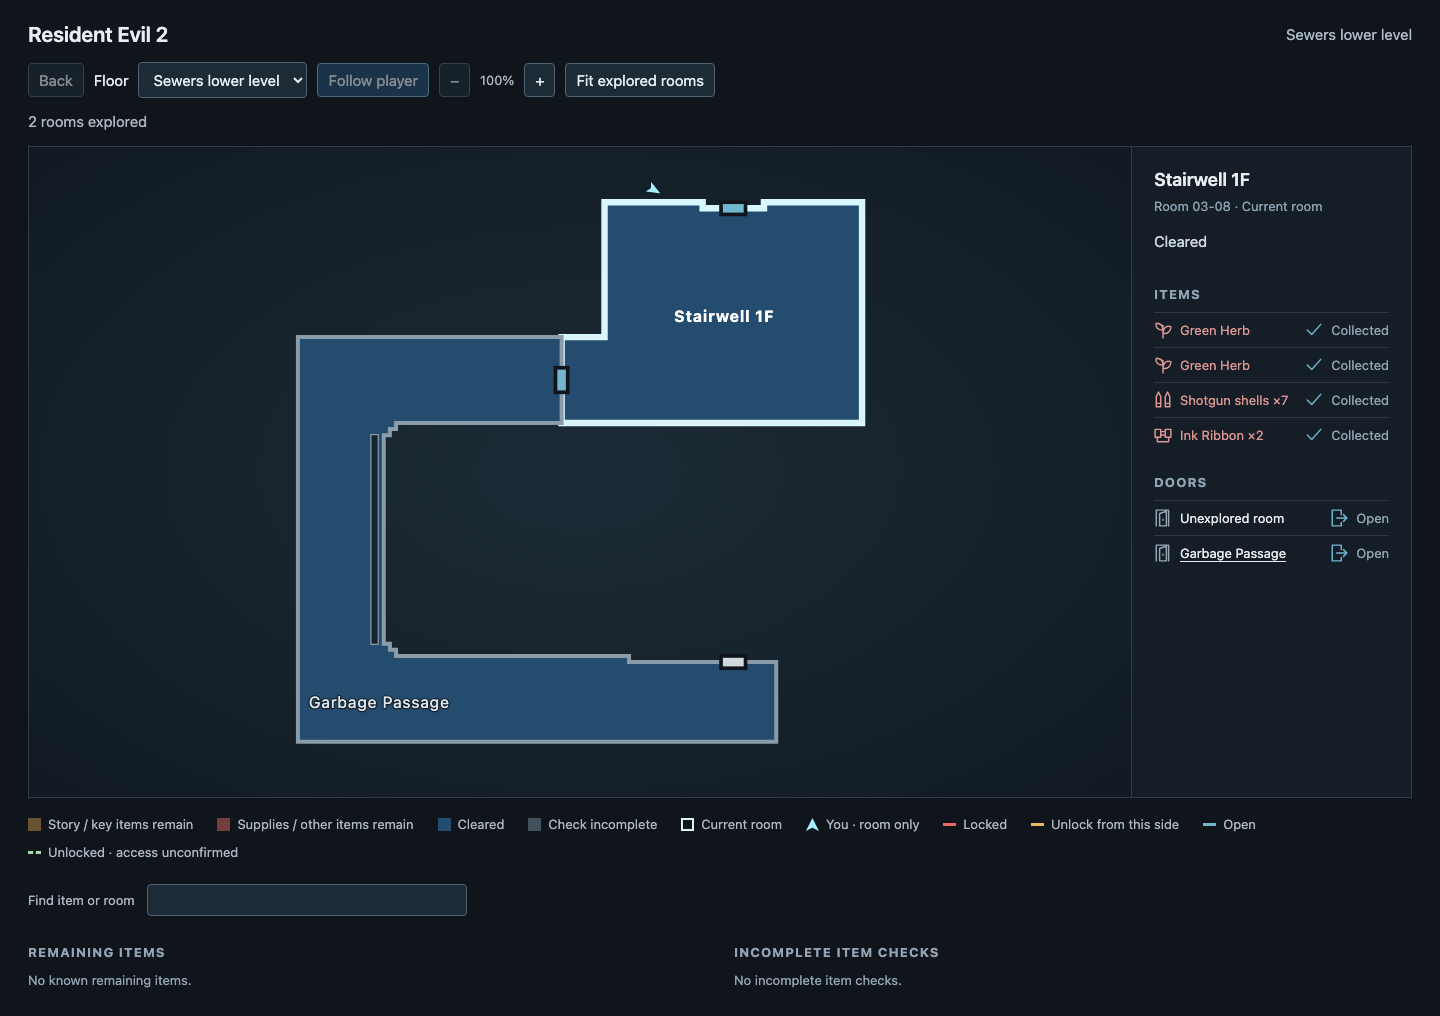
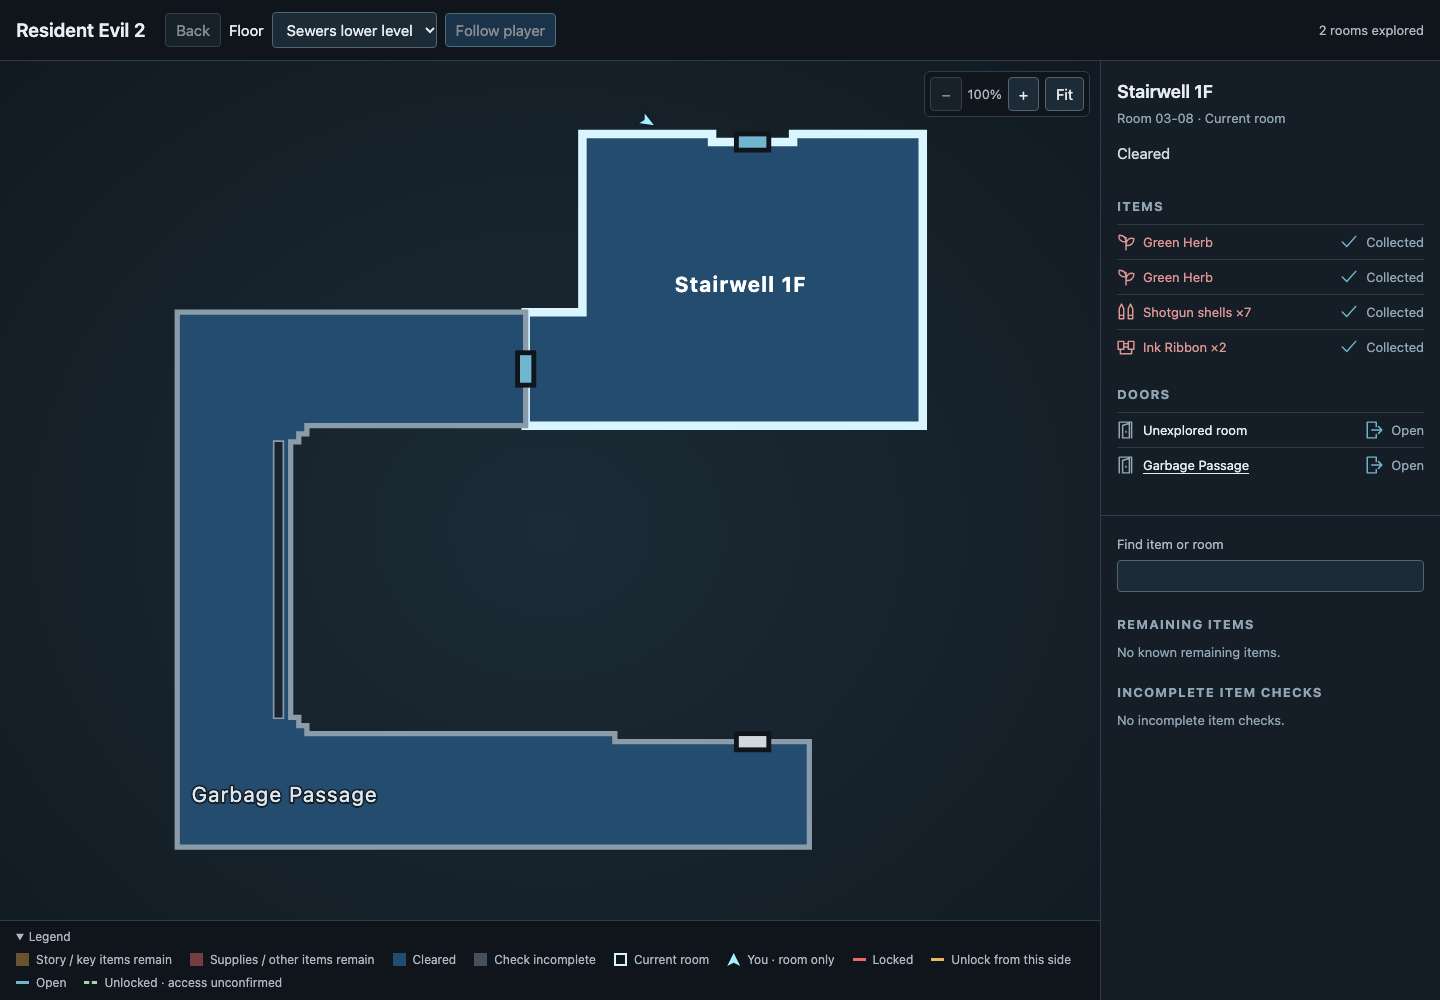
feat(ui): fit the map and room sidebar to the window
Wide windows now show the floor plan at full height beside a scrolling
sidebar holding room details and remaining items. Map controls join the
header, zoom floats over the map and the legend collapses below it.

Author: claude-opus-5-5

diff --git a/src/ui/map_view.py b/src/ui/map_view.py
@@ -215,18 +215,18 @@ _PAGE = """<!doctype html>
 <style>
 :root { color-scheme:dark; font:15px system-ui,sans-serif; background:#10151b; color:#e7edf2; }
 body { margin:0; }
-header { padding:22px 28px 16px; display:flex; justify-content:space-between; align-items:center; gap:16px; }
-h1 { margin:0; font-size:21px; font-weight:600; }
-#place { color:#b0beca; }
-#map-controls { padding:0 28px 14px; display:flex; align-items:center; flex-wrap:wrap; gap:10px; }
-#zoom-controls { display:inline-flex; align-items:center; gap:10px; }
+header { padding:12px 16px; display:flex; align-items:center; flex-wrap:wrap; gap:10px 20px; border-bottom:1px solid #303d48; }
+h1 { margin:0; font-size:19px; font-weight:600; }
+#map-controls { display:flex; align-items:center; flex-wrap:wrap; gap:8px; }
+/* Map controls float above the map so the floor plan keeps the full height. */
+#zoom-controls { position:absolute; top:10px; right:10px; z-index:1; display:flex; align-items:center; gap:6px; padding:5px; background:rgba(16,21,27,.86); border:1px solid #303d48; border-radius:6px; }
 select,button,input { font:inherit; color:inherit; background:#1c2b36; border:1px solid #506473; border-radius:4px; padding:7px 10px; }
 select:disabled,button:disabled,input:disabled { opacity:.55; }
 #current-room[aria-pressed="true"] { border-color:#71b6cf; background:#244c6e; }
-#status { padding:0 28px 14px; min-height:20px; color:#abb9c5; }
-main { display:grid; grid-template-columns:minmax(0,1fr) 280px; margin:0 28px; border:1px solid #303d48; background:#151e27; }
+#status { margin-left:auto; color:#abb9c5; font-size:13px; }
+main { display:grid; grid-template-columns:minmax(0,1fr); background:#151e27; }
 #map-shell { position:relative; min-width:0; background:radial-gradient(ellipse at center,#1c2b36,#111a22); }
-#map { display:block; width:100%; height:65vh; min-height:410px; }
+#map { display:block; width:100%; height:60vh; min-height:340px; }
 #map { user-select:none; }
 #map:focus-visible { outline:2px solid #d9f6ff; outline-offset:-2px; }
 #map.navigable { cursor:grab; touch-action:none; }
@@ -279,8 +279,10 @@ distinct from room outlines and fills. */
 .door.UNCHECKED .unlock-symbol rect { stroke-dasharray:.9 .6; }
 .door.BLOCKED .unlock-symbol rect { stroke:#ed6965; }
 .door.OPEN .unlock-symbol rect { stroke:#71b6cf; }
-aside { border-left:1px solid #303d48; padding:22px; }
-#room-name { font-size:18px; font-weight:600; margin:0 0 8px; }
+aside { border-top:1px solid #303d48; }
+#room-details { padding:20px 16px; }
+/* Focus recovery scrolls details into view; keep them clear of the viewport edge. */
+#room-name { font-size:18px; font-weight:600; margin:0 0 8px; scroll-margin:16px; }
 #room-id { color:#91a5b4; font-size:13px; margin-bottom:18px; }
 #completion { padding-bottom:14px; color:#ced9e1; }
 h2 { font-size:13px; text-transform:uppercase; letter-spacing:.09em; color:#91a5b4; margin:22px 0 10px; }
@@ -299,15 +301,16 @@ li > span:last-child { color:#94a7b6; text-align:right; }
 .list-symbol.locked,.list-symbol.blocked { color:#ed6965; }
 .list-symbol.unlockable { color:#e9b85e; }
 .list-symbol.unlocked { color:#a5d5ac; }
-#legend { display:flex; flex-wrap:wrap; gap:12px 24px; padding:18px 28px 24px; color:#abb9c5; font-size:13px; }
+#legend { color:#abb9c5; font-size:13px; border-top:1px solid #303d48; background:#10151b; }
+#legend summary { padding:10px 16px; cursor:pointer; }
+#legend-entries { display:flex; flex-wrap:wrap; gap:10px 20px; padding:0 16px 14px; }
 .key { display:inline-block; width:13px; height:13px; margin-right:7px; vertical-align:-2px; }
 .key.door-key { height:3px; vertical-align:3px; }
 .key.unlocked-key { height:0; border-top:3px dashed #a5d5ac; }
 #note { color:#91a5b4; font-size:13px; line-height:1.5; }
-#overview { display:grid; grid-template-columns:1fr 1fr; gap:28px; margin:0 28px 28px; }
-#item-search-label { grid-column:1/-1; display:flex; flex-wrap:wrap; align-items:center; gap:8px 12px; font-size:13px; color:#abb9c5; }
-#item-search { box-sizing:border-box; width:min(100%,320px); }
-#cleared-section { grid-column:1/-1; }
+#overview { display:flex; flex-direction:column; gap:24px; padding:20px 16px; border-top:1px solid #303d48; }
+#item-search-label { display:flex; flex-direction:column; gap:8px; font-size:13px; color:#abb9c5; }
+#item-search { box-sizing:border-box; width:100%; }
 #overview h2 { margin:0 0 12px; }
 #overview h3 { margin:18px 0 8px; font-size:14px; font-weight:500; }
 #overview p { margin:0; font-size:13px; color:#91a5b4; }
@@ -316,18 +319,29 @@ li > span:last-child { color:#94a7b6; text-align:right; }
 .room-link:hover,.room-link:focus-visible { border-color:#d9f6ff; }
 #overview .room-link span { display:block; text-align:left; color:inherit; }
 #overview .room-link span+span { margin-top:4px; color:#94a7b6; }
-@media(max-width:760px) { header { padding:18px; } #map-controls { padding:0 18px 12px; } #status { padding:0 18px 12px; } main { margin:0 18px; grid-template-columns:1fr; } #map { min-height:340px; height:52vh; } aside { border-left:0; border-top:1px solid #303d48; } #legend { padding:18px; } #overview { margin:0 18px 18px; grid-template-columns:1fr; gap:22px; } }
+/* Wide windows keep the map and sidebar on screen together during play;
+the sidebar scrolls on its own instead of the page. */
+@media(min-width:761px) and (min-height:560px) {
+  body { height:100vh; height:100dvh; display:flex; flex-direction:column; overflow:hidden; }
+  main { flex:1; min-height:0; grid-template-columns:minmax(0,1fr) 300px; grid-template-rows:minmax(0,1fr); }
+  /* The legend stays below the floor plan so it never covers explored rooms. */
+  #map-shell { display:flex; flex-direction:column; }
+  #map { flex:1; height:auto; min-height:0; }
+  aside { border-top:0; border-left:1px solid #303d48; overflow-y:auto; }
+  #legend { font-size:12px; }
+  #legend summary { padding:8px 16px; }
+  #legend-entries { gap:8px 18px; padding:0 16px 10px; }
+}
+@media(min-width:1100px) and (min-height:560px) { main { grid-template-columns:minmax(0,1fr) 340px; } }
 </style>
 </head>
 <body>
-<header><h1>__GAME_TITLE__</h1><span id="place"></span></header>
-<nav id="map-controls" aria-label="Map controls"><button id="back-room" type="button" aria-label="Back to previous room" disabled>Back</button><label for="floor">Floor</label><select id="floor" disabled></select><button id="current-room" type="button" aria-pressed="false" disabled>Follow player</button><span id="zoom-controls" role="group" aria-label="Map zoom"><button id="zoom-out" type="button" aria-label="Zoom out" disabled>−</button><output id="zoom-level" aria-label="Zoom level"></output><button id="zoom-in" type="button" aria-label="Zoom in" disabled>+</button></span><button id="fit-rooms" type="button" disabled>Fit explored rooms</button></nav>
-<div id="status" role="status">Waiting for game.</div>
+<header><h1>__GAME_TITLE__</h1><nav id="map-controls" aria-label="Map controls"><button id="back-room" type="button" aria-label="Back to previous room" disabled>Back</button><label for="floor">Floor</label><select id="floor" disabled></select><button id="current-room" type="button" aria-pressed="false" disabled>Follow player</button></nav><div id="status" role="status">Waiting for game.</div></header>
 <main>
-<div id="map-shell"><svg id="map" role="group" tabindex="-1" aria-label="Explored rooms" aria-description="Arrow keys move the map. Plus and minus zoom. Zero fits explored rooms. You can also drag, pinch or use the mouse wheel."></svg></div>
-<aside><div id="room-name" tabindex="-1">No room entered</div><div id="room-id"></div><div id="completion"></div><h2>Items</h2><ul id="items"></ul><h2>Doors</h2><ul id="doors"></ul><p id="note"></p></aside>
-</main>
-<div id="legend">
+<div id="map-shell">
+<div id="zoom-controls" role="group" aria-label="Map zoom"><button id="zoom-out" type="button" aria-label="Zoom out" disabled>−</button><output id="zoom-level" aria-label="Zoom level"></output><button id="zoom-in" type="button" aria-label="Zoom in" disabled>+</button><button id="fit-rooms" type="button" aria-label="Fit explored rooms" title="Fit explored rooms" disabled>Fit</button></div>
+<svg id="map" role="group" tabindex="-1" aria-label="Explored rooms" aria-description="Arrow keys move the map. Plus and minus zoom. Zero fits explored rooms. You can also drag, pinch or use the mouse wheel."></svg>
+<details id="legend" open><summary>Legend</summary><div id="legend-entries">
 <span><i class="key" style="background:#685331"></i>Story / key items remain</span>
 <span><i class="key" style="background:#743e40"></i>Supplies / other items remain</span>
 <span><i class="key" style="background:#244c6e"></i>Cleared</span>
@@ -338,13 +352,18 @@ li > span:last-child { color:#94a7b6; text-align:right; }
 <span><i class="key door-key" style="background:#e9b85e"></i>Unlock from this side</span>
 <span><i class="key door-key" style="background:#71b6cf"></i>Open</span>
 <span><i class="key door-key unlocked-key"></i>Unlocked · access unconfirmed</span>
+</div></details>
 </div>
+<aside>
+<section id="room-details"><div id="room-name" tabindex="-1">No room entered</div><div id="room-id"></div><div id="completion"></div><h2>Items</h2><ul id="items"></ul><h2>Doors</h2><ul id="doors"></ul><p id="note"></p></section>
 <section id="overview" aria-label="Explored room items">
 <label id="item-search-label" for="item-search">Find item or room<input id="item-search" type="search" autocomplete="off" aria-controls="remaining-items incomplete-checks cleared-rooms" disabled></label>
 <section id="cleared-section" aria-labelledby="cleared-heading" hidden><h2 id="cleared-heading">Cleared rooms</h2><div id="cleared-rooms"></div></section>
 <section id="remaining-section" aria-labelledby="remaining-heading"><h2 id="remaining-heading">Remaining items</h2><p id="remaining-status">Waiting for game.</p><div id="remaining-items"></div></section>
 <section id="checks-section" aria-labelledby="checks-heading"><h2 id="checks-heading">Incomplete item checks</h2><p id="checks-status">Waiting for game.</p><div id="incomplete-checks"></div></section>
 </section>
+</aside>
+</main>
 <script>
 const catalog = __GRAPH__;
 const instanceMeta = document.querySelector('meta[name="map-instance"]');
@@ -375,6 +394,10 @@ const currentRoomButton = document.getElementById('current-room');
 const zoomIn = document.getElementById('zoom-in');
 const zoomOut = document.getElementById('zoom-out');
 const fitRooms = document.getElementById('fit-rooms');
+const legend = document.getElementById('legend');
+// The legend's open state is a per-viewer convenience; storage can be unavailable.
+try { if(localStorage.getItem('legend-open')==='false') legend.open=false; } catch {}
+legend.addEventListener('toggle',()=>{try { localStorage.setItem('legend-open',String(legend.open)); } catch {}});
 itemSearch.addEventListener('input',()=>{if(lastState!==null && lastState.status==='display') updateOverview(lastState);});
 itemSearch.addEventListener('keydown',event=>{
   if(event.key==='Escape' && itemSearch.value!=='') {
@@ -819,7 +842,6 @@ function draw(state) {
   const plan=areas.get(displayedArea);
   if(selectedArea!==displayedArea) {selected=null;selectedArea=displayedArea;}
   const byId=new Map((plan ? plan.rooms : []).map(room=>[room.id,room]));
-  document.getElementById('place').textContent=plan ? plan.name : 'Room '+state.current;
   svg.setAttribute('aria-label',plan ? 'Explored '+plan.name : 'Explored rooms');
   const visible=new Map(state.explored_areas[displayedArea].filter(room=>byId.has(room.id)).map(room=>[room.id,room]));
   const currentId=showingCurrentFloor ? state.map_region : null;
@@ -1124,6 +1146,8 @@ function inspectRoom(area,id) {
 }
 function focusInspectedRoom() {
   document.querySelector('main').scrollIntoView({block:'start'});
+  // Wide layouts scroll the sidebar separately; reveal the inspected room's details.
+  document.querySelector('aside').scrollTo({top:0});
   const room=svg.querySelector('.room.selected');
   // An unoutlined current room has details but no SVG focus target.
   const target=room || document.getElementById('room-name');

diff --git a/README.md b/README.md
@@ -31,6 +31,8 @@ The GDB server is built into DuckStation. You do not need to install or start a 
 
 Keep the terminal running while you play. Press Ctrl+C there to stop the tracker.
 
+The map fills the window, with the selected room's details and the remaining items in a sidebar beside it. On a narrow screen they appear below the map. Collapse **Legend** under the map to give the floor plan more room.
+
 Rooms appear as you enter them. Gold means story/key items remain; red means supplies or other items remain; blue means cleared; gray means the item check is incomplete. Story/key items determine the color when both kinds remain. RE1 puzzle rewards keep their room incomplete until collected, even before the puzzle is solved. In RE1 and RE2, the cyan arrow follows your approximate position where placement is established and rotates with your facing direction. Placement is approximate because the original maps distort room proportions. The legend identifies approximate placement or a room-only marker when position is unavailable. The white outline also marks the current room. Click a room to see its items and doors. Underlined destination names in **Doors** open that explored room on the tracker.
 
 The item list uses gold symbols for story/key items and red symbols for supplies, alongside their names and status text. Verified item counts other than one appear beside item names, including in **Remaining items**. Weapon resources, key uses and unresolved amounts have no multiplier. Check marks, question marks and door/key symbols distinguish collection and access states. An unresolved item identity uses a neutral collectible symbol.
@@ -43,7 +45,7 @@ In RE2, a green open padlock shows a freshly confirmed unlock. A dashed frame me
 
 **Back** returns to the previous inspected room with its zoom and pan. Use **Floor** to browse explored floors. Click **Follow player** to stop inspecting a selected room and resume selecting each room you enter. The highlighted button shows when following is active.
 
-Use the mouse wheel or **+ / −** buttons to zoom, and drag the map to move it. **Fit explored rooms** shows the whole explored floor again. With the map focused, arrow keys move the view, plus/minus zoom, and zero fits explored rooms. Use Tab to focus the map or rooms, then Enter or Space to inspect a focused room. See [map controls](docs/map-controls.md).
+Use the mouse wheel or the **+ / −** buttons in the map's top-right corner to zoom, and drag the map to move it. **Fit** shows the whole explored floor again. With the map focused, arrow keys move the view, plus/minus zoom, and zero fits explored rooms. Use Tab to focus the map or rooms, then Enter or Space to inspect a focused room. See [map controls](docs/map-controls.md).
 
 Use **Remaining items** to find pickups in explored rooms, and click a room to open it on the map. Off-screen outlines come into view at your chosen zoom, zooming out if needed to fit. **Incomplete item checks** names unresolved items and identifies incomplete item lists, with links to their rooms.
 

diff --git a/docs/map-controls.md b/docs/map-controls.md
@@ -14,7 +14,7 @@ Each room button has an accessible description of completion and whether it is c
 | `0` | Fit all explored rooms on the displayed floor |
 | Enter or Space | Inspect the focused room |
 
-The mouse wheel and zoom buttons also zoom; dragging moves the map. On a touch screen, drag with one finger or pinch with two fingers to zoom and move the view. Lift one finger to continue dragging with the other. Gestures keep the selected room; tap a room to inspect it.
+The mouse wheel and the zoom buttons in the map's top-right corner also zoom, and **Fit** shows all explored rooms; dragging moves the map. On a touch screen, drag with one finger or pinch with two fingers to zoom and move the view. Lift one finger to continue dragging with the other. Gestures keep the selected room; tap a room to inspect it.
 
 Enter and Space bring an inspected room into view after zooming or panning. Back restores the previous view.
 
